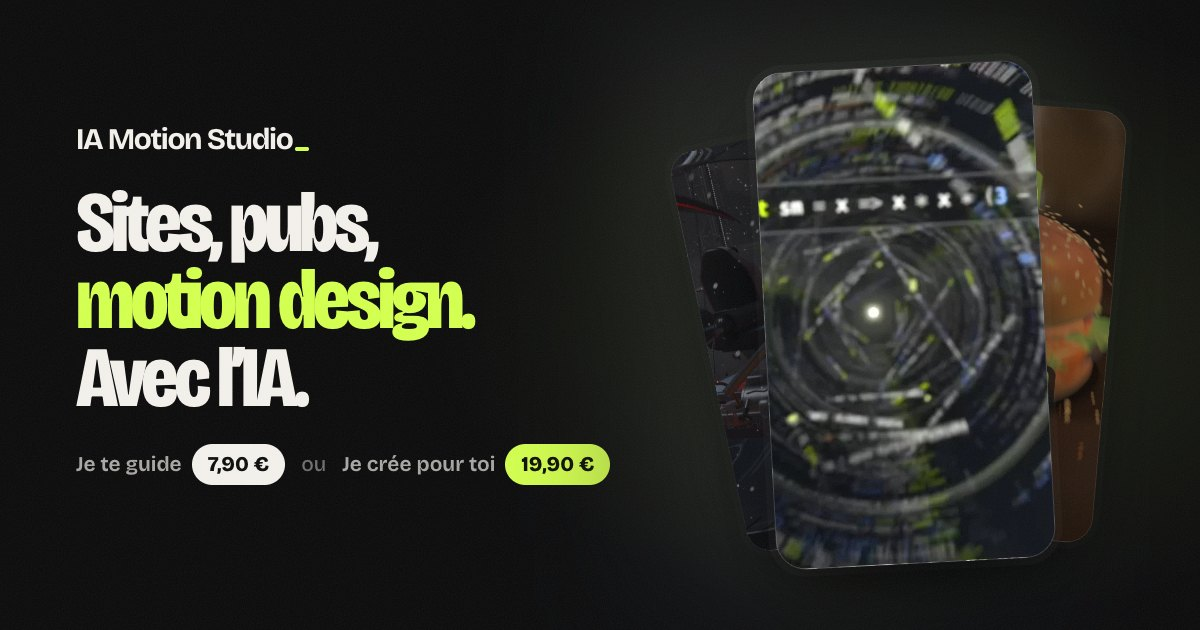
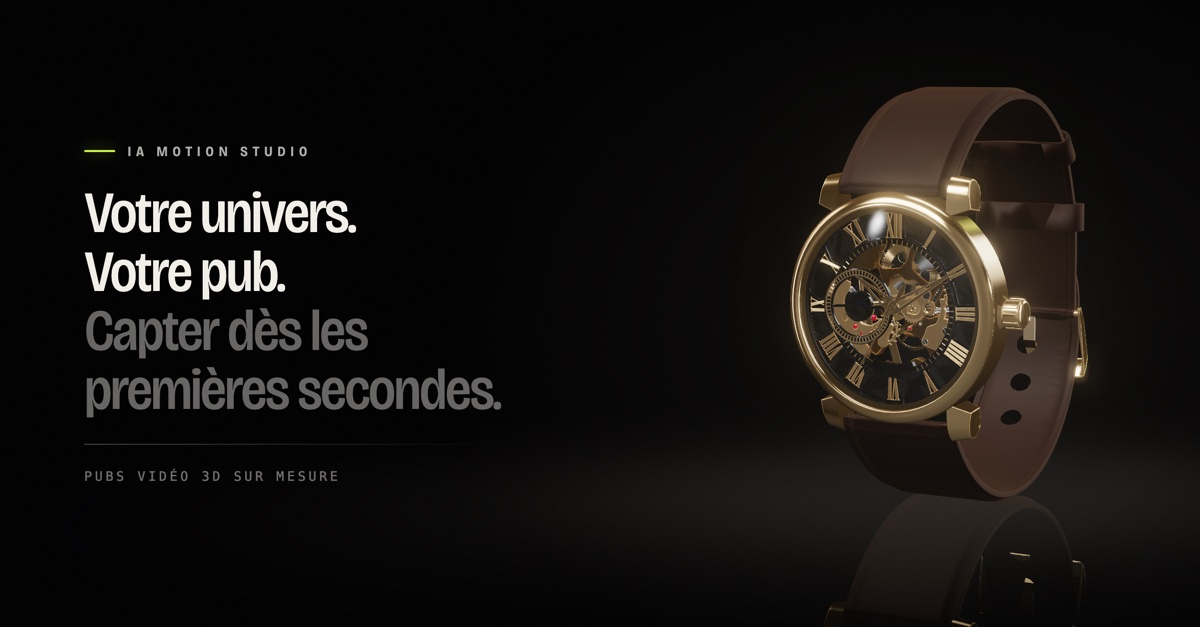
new version

diff --git a/site/pub.html b/site/pub.html
@@ -5,15 +5,15 @@
 <meta charset="utf-8">
 <meta name="viewport" content="width=device-width, initial-scale=1, viewport-fit=cover">
 <meta name="robots" content="noindex">
-<title>IA Motion Studio · Pubs vidéo, motion design et sites avec l’IA</title>
-<meta name="description" content="Sites web, vidéos publicitaires, motion design : je t’explique ma méthode pour créer avec l’IA, ou je crée ton projet pour toi, livré en 24 h maximum. Paiement unique.">
+<title>IA Motion Studio · Des pubs vidéo haut de gamme, à votre portée</title>
+<meta name="description" content="Pubs vidéo et motion design sur mesure, pensés pour l’univers de chaque marque et pour capter dès les premières secondes. Livrées en 24 à 48 h.">
 <meta name="theme-color" content="#09090A">
 <meta property="og:type" content="website">
 <meta property="og:site_name" content="IA Motion Studio">
-<meta property="og:title" content="IA Motion Studio · Pubs vidéo, motion design et sites avec l’IA">
-<meta property="og:description" content="Deux formules pour ton site, ta pub ou ton motion design : je te guide, ou je crée pour toi. Paiement unique.">
+<meta property="og:title" content="IA Motion Studio · Des pubs vidéo haut de gamme, à votre portée">
+<meta property="og:description" content="Pubs vidéo et motion design sur mesure, pensés pour l’univers de chaque marque et pour capter dès les premières secondes. Livrées en 24 à 48 h.">
 <meta property="og:url" content="https://ia-motionstudio.fr/pub">
-<meta property="og:image" content="https://ia-motionstudio.fr/assets/media/og.jpg">
+<meta property="og:image" content="https://ia-motionstudio.fr/assets/media/og.jpg?v=2">
 <meta name="twitter:card" content="summary_large_image">
 <link rel="canonical" href="https://ia-motionstudio.fr/">
 <link rel="icon" href="/assets/favicon.svg" type="image/svg+xml">
@@ -78,7 +78,7 @@ var c=l||'fr',k=document.createElement('link');k.rel='preload';k.as='fetch';k.cr
         <span class="hh-l hh-acc" aria-hidden="true" data-split data-i18n="hero.l2" style="--d:110ms">haut de gamme.</span>
         <span class="hh-l" aria-hidden="true" data-split data-i18n="hero.l3" style="--d:220ms">À votre portée.</span>
       </h1>
-      <p class="hero-sub" data-h style="--d:420ms" data-i18n="hero.sub">Pubs vidéo et motion design sur mesure, au niveau des grandes marques. Livrées en 48 h.</p>
+      <p class="hero-sub" data-h style="--d:420ms" data-i18n="hero.sub">Pubs vidéo et motion design sur mesure, au niveau des grandes marques, livrées dès 24 h.</p>
       <div class="hero-offers" data-h style="--d:540ms" data-hide-sticky>
         <p class="ho-launch" data-launch hidden><i class="live"></i><span data-launch-text></span><b data-countdown></b></p>
         <div class="trio trio-hero" role="radiogroup" data-i18n-attr="aria-label:sheet.switchLabel"><button type="button" class="tri" data-pick-tier="pro" data-trio="pro" aria-pressed="false"><em class="tri-badge tri-badge2" data-i18n="offers.pro.heroBadge"></em><b class="tri-n" data-i18n="offers.pro.name"></b><span class="tri-p"><s data-price-was="pro" hidden></s><span data-price="pro"></span></span><small class="tri-m" data-ti18n="offers.pro.mini"></small></button><button type="button" class="tri is-main sel" data-pick-tier="essentielle" data-trio="essentielle" aria-pressed="true"><em class="tri-badge" data-i18n="offers.essentielle.heroBadge"></em><b class="tri-n" data-i18n="offers.essentielle.name"></b><span class="tri-p"><s data-price-was="essentielle" hidden></s><span data-price="essentielle"></span></span><small class="tri-m" data-ti18n="offers.essentielle.mini"></small></button><button type="button" class="tri" data-pick-tier="studio" data-trio="studio" aria-pressed="false"><em class="tri-badge tri-badge2" data-i18n="offers.studio.heroBadge"></em><b class="tri-n" data-i18n="offers.studio.name"></b><span class="tri-p"><s data-price-was="studio" hidden></s><span data-price="studio"></span></span><small class="tri-m" data-ti18n="offers.studio.mini"></small></button></div>
@@ -163,13 +163,13 @@ var c=l||'fr',k=document.createElement('link');k.rel='preload';k.as='fetch';k.cr
         <span class="chip"><span class="chip-pl"><svg viewBox="0 0 24 24" aria-hidden="true"><path d="M8 5.5v13l10.5-6.5z"/></svg></span> Regarder avec le son <i>0:20</i></span>
       </article>
       <div class="vclients">
-        <article class="vcard vclient" data-play="tacnaan" role="button" tabindex="0" aria-label="Regarder avec le son : restaurant, projet client, formule Essentielle à 39 €">
+        <article class="vcard vclient" data-play="tacnaan" role="button" tabindex="0" aria-label="Regarder avec le son : restaurant, projet client">
           <video muted playsinline loop preload="none" data-poster="/assets/media/tacnaan-poster.webp" data-src="/assets/media/tacnaan-teaser.mp4" data-lazy></video>
           <span class="vtag vtag-c"><svg class="xic" viewBox="0 0 24 24" aria-hidden="true"><path d="M6.5 12.5l3.5 3.5 7.5-8"/></svg> Essentielle · 19,90 €</span>
           <span class="vname"><small>Projet client</small>Restaurant</span>
           <span class="chip"><span class="chip-pl"><svg viewBox="0 0 24 24" aria-hidden="true"><path d="M8 5.5v13l10.5-6.5z"/></svg></span> <i>0:22</i></span>
         </article>
-        <article class="vcard vclient" data-play="digi" role="button" tabindex="0" aria-label="Regarder avec le son : formation e-commerce, projet client, formule Essentielle à 39 €">
+        <article class="vcard vclient" data-play="digi" role="button" tabindex="0" aria-label="Regarder avec le son : formation e-commerce, projet client">
           <video muted playsinline loop preload="none" data-poster="/assets/media/digi-poster.webp" data-src="/assets/media/digi-teaser.mp4" data-lazy></video>
           <span class="vtag vtag-c"><svg class="xic" viewBox="0 0 24 24" aria-hidden="true"><path d="M6.5 12.5l3.5 3.5 7.5-8"/></svg> Essentielle · 19,90 €</span>
           <span class="vname"><small>Projet client</small>E-commerce</span>
@@ -279,7 +279,7 @@ var c=l||'fr',k=document.createElement('link');k.rel='preload';k.as='fetch';k.cr
 <!-- Barre du bas (téléphone) : mène aux deux formules -->
 <div class="sticky" data-sticky>
   <a class="btn btn-p" href="#top" data-go-offers><span data-i18n="sticky.cta">Choisir ma formule</span><svg class="ic" viewBox="0 0 24 24" aria-hidden="true"><path d="M12 5v14M6 13l6 6 6-6"/></svg></a>
-  <p class="sticky-t" data-i18n="sticky.note">Je vous guide, ou je crée pour vous</p>
+  <p class="sticky-t" data-i18n="sticky.note">Pour commencer : Essentielle à 19,90 € · livrée en 24 h</p>
 </div>
 
 <!-- Récapitulatif avant paiement -->
@@ -292,7 +292,7 @@ var c=l||'fr',k=document.createElement('link');k.rel='preload';k.as='fetch';k.cr
     <div class="seg sw sw3" role="radiogroup" data-offer-switch data-i18n-attr="aria-label:sheet.switchLabel">
       <span class="seg-pill" aria-hidden="true"></span>
       <label><input type="radio" name="offer" value="essentielle"><span><b data-i18n="offers.essentielle.name">Essentielle</b><small data-price="essentielle"></small></span></label>
-      <label><input type="radio" name="offer" value="pro"><span><b data-i18n="offers.pro.name">Pro</b><small data-price="pro"></small></span></label>
+      <label><input type="radio" name="offer" value="pro"><span><b data-i18n="offers.pro.name">Pro Studio</b><small data-price="pro"></small></span></label>
       <label><input type="radio" name="offer" value="studio"><span><b data-i18n="offers.studio.name">Premium</b><small data-price="studio"></small></span></label>
       <input type="radio" name="offer" value="guide" hidden checked>
     </div>
@@ -319,7 +319,7 @@ var c=l||'fr',k=document.createElement('link');k.rel='preload';k.as='fetch';k.cr
     </fieldset>
     <p class="sheet-ship" data-only="creation" hidden><svg viewBox="0 0 24 24" aria-hidden="true"><circle cx="12" cy="12" r="8.5"/><path d="M12 7.5V12l3 2"/></svg><span data-sheet-ship>Livraison par e-mail, en 48 h maximum</span></p>
     <div class="sheet-up" data-sheet-up hidden><p data-sheet-up-t></p><button type="button" class="sheet-up-go" data-sheet-up-go></button></div>
-    <div class="sheet-total"><span><span data-i18n="sheet.total">Total</span><small data-i18n="sheet.once">Paiement unique · sans abonnement</small></span><strong data-sheet-price>7,90 €</strong></div>
+    <div class="sheet-total"><span><span data-i18n="sheet.total">Total</span><small data-i18n="sheet.once">Paiement unique · sans abonnement</small></span><strong data-sheet-price>14,90 €</strong></div>
     <label class="check">
       <input type="checkbox" name="consent" required>
       <span class="box" aria-hidden="true"><svg viewBox="0 0 24 24"><path d="M5 12.5l4.5 4.5L19 7.5"/></svg></span>
@@ -393,7 +393,7 @@ var c=l||'fr',k=document.createElement('link');k.rel='preload';k.as='fetch';k.cr
     <div class="p-end">
       <p class="p-end-t" data-i18n="video.endTitle">Et votre projet ?</p>
       <p class="p-end-s" data-i18n="video.endSub"></p>
-      <button class="btn btn-p" type="button" data-book="creation"><span data-i18n="offers.creation.name">Je crée pour vous</span><svg class="ic" viewBox="0 0 24 24" aria-hidden="true"><path d="M5 12h14M13 6l6 6-6 6"/></svg></button>
+      <button class="btn btn-p" type="button" data-book="creation"><span data-i18n="hero.cta">Voir les formules</span><svg class="ic" viewBox="0 0 24 24" aria-hidden="true"><path d="M5 12h14M13 6l6 6-6 6"/></svg></button>
       <button class="btn btn-g" type="button" data-book="guide"><span data-i18n="offers.guide.name">Je vous guide</span></button>
       <button class="p-replay" type="button" data-preplay><svg viewBox="0 0 24 24" aria-hidden="true"><path d="M4.5 12a7.5 7.5 0 1 0 2.2-5.3M4.5 4.5v4h4"/></svg><span data-i18n="video.replay">Revoir</span></button>
     </div>

diff --git a/site/index.html b/site/index.html
@@ -3,15 +3,15 @@
 <head>
 <meta charset="utf-8">
 <meta name="viewport" content="width=device-width, initial-scale=1, viewport-fit=cover">
-<title>IA Motion Studio · Pubs vidéo, motion design et sites avec l’IA</title>
-<meta name="description" content="Sites web, vidéos publicitaires, motion design : je t’explique ma méthode pour créer avec l’IA, ou je crée ton projet pour toi, livré en 24 h maximum. Paiement unique.">
+<title>IA Motion Studio · Des pubs vidéo haut de gamme, à votre portée</title>
+<meta name="description" content="Pubs vidéo et motion design sur mesure, pensés pour l’univers de chaque marque et pour capter dès les premières secondes. Livrées en 24 à 48 h.">
 <meta name="theme-color" content="#09090A">
 <meta property="og:type" content="website">
 <meta property="og:site_name" content="IA Motion Studio">
-<meta property="og:title" content="IA Motion Studio · Pubs vidéo, motion design et sites avec l’IA">
-<meta property="og:description" content="Deux formules pour ton site, ta pub ou ton motion design : je te guide, ou je crée pour toi. Paiement unique.">
+<meta property="og:title" content="IA Motion Studio · Des pubs vidéo haut de gamme, à votre portée">
+<meta property="og:description" content="Pubs vidéo et motion design sur mesure, pensés pour l’univers de chaque marque et pour capter dès les premières secondes. Livrées en 24 à 48 h.">
 <meta property="og:url" content="https://ia-motionstudio.fr/">
-<meta property="og:image" content="https://ia-motionstudio.fr/assets/media/og.jpg">
+<meta property="og:image" content="https://ia-motionstudio.fr/assets/media/og.jpg?v=2">
 <meta name="twitter:card" content="summary_large_image">
 <link rel="canonical" href="https://ia-motionstudio.fr/">
 <link rel="alternate" hreflang="fr" href="https://ia-motionstudio.fr/fr">
@@ -126,7 +126,7 @@ var c=l||'fr',k=document.createElement('link');k.rel='preload';k.as='fetch';k.cr
         <span class="hh-l hh-acc" aria-hidden="true" data-split data-i18n="hero.l2" style="--d:110ms">haut de gamme.</span>
         <span class="hh-l" aria-hidden="true" data-split data-i18n="hero.l3" style="--d:220ms">À votre portée.</span>
       </h1>
-      <p class="hero-sub" data-h style="--d:420ms" data-i18n="hero.sub">Pubs vidéo et motion design sur mesure, au niveau des grandes marques. Livrées en 48 h.</p>
+      <p class="hero-sub" data-h style="--d:420ms" data-i18n="hero.sub">Pubs vidéo et motion design sur mesure, au niveau des grandes marques, livrées dès 24 h.</p>
       <div class="hero-offers" data-h style="--d:540ms" data-hide-sticky>
         <p class="ho-launch" data-launch hidden><i class="live"></i><span data-launch-text></span><b data-countdown></b></p>
         <div class="trio trio-hero" role="radiogroup" data-i18n-attr="aria-label:sheet.switchLabel"><button type="button" class="tri" data-pick-tier="pro" data-trio="pro" aria-pressed="false"><em class="tri-badge tri-badge2" data-i18n="offers.pro.heroBadge"></em><b class="tri-n" data-i18n="offers.pro.name"></b><span class="tri-p"><s data-price-was="pro" hidden></s><span data-price="pro"></span></span><small class="tri-m" data-ti18n="offers.pro.mini"></small></button><button type="button" class="tri is-main sel" data-pick-tier="essentielle" data-trio="essentielle" aria-pressed="true"><em class="tri-badge" data-i18n="offers.essentielle.heroBadge"></em><b class="tri-n" data-i18n="offers.essentielle.name"></b><span class="tri-p"><s data-price-was="essentielle" hidden></s><span data-price="essentielle"></span></span><small class="tri-m" data-ti18n="offers.essentielle.mini"></small></button><button type="button" class="tri" data-pick-tier="studio" data-trio="studio" aria-pressed="false"><em class="tri-badge tri-badge2" data-i18n="offers.studio.heroBadge"></em><b class="tri-n" data-i18n="offers.studio.name"></b><span class="tri-p"><s data-price-was="studio" hidden></s><span data-price="studio"></span></span><small class="tri-m" data-ti18n="offers.studio.mini"></small></button></div>
@@ -211,13 +211,13 @@ var c=l||'fr',k=document.createElement('link');k.rel='preload';k.as='fetch';k.cr
         <span class="chip"><span class="chip-pl"><svg viewBox="0 0 24 24" aria-hidden="true"><path d="M8 5.5v13l10.5-6.5z"/></svg></span> Regarder avec le son <i>0:20</i></span>
       </article>
       <div class="vclients">
-        <article class="vcard vclient" data-play="tacnaan" role="button" tabindex="0" aria-label="Regarder avec le son : restaurant, projet client, formule Essentielle à 39 €">
+        <article class="vcard vclient" data-play="tacnaan" role="button" tabindex="0" aria-label="Regarder avec le son : restaurant, projet client">
           <video muted playsinline loop preload="none" data-poster="/assets/media/tacnaan-poster.webp" data-src="/assets/media/tacnaan-teaser.mp4" data-lazy></video>
           <span class="vtag vtag-c"><svg class="xic" viewBox="0 0 24 24" aria-hidden="true"><path d="M6.5 12.5l3.5 3.5 7.5-8"/></svg> Essentielle · 19,90 €</span>
           <span class="vname"><small>Projet client</small>Restaurant</span>
           <span class="chip"><span class="chip-pl"><svg viewBox="0 0 24 24" aria-hidden="true"><path d="M8 5.5v13l10.5-6.5z"/></svg></span> <i>0:22</i></span>
         </article>
-        <article class="vcard vclient" data-play="digi" role="button" tabindex="0" aria-label="Regarder avec le son : formation e-commerce, projet client, formule Essentielle à 39 €">
+        <article class="vcard vclient" data-play="digi" role="button" tabindex="0" aria-label="Regarder avec le son : formation e-commerce, projet client">
           <video muted playsinline loop preload="none" data-poster="/assets/media/digi-poster.webp" data-src="/assets/media/digi-teaser.mp4" data-lazy></video>
           <span class="vtag vtag-c"><svg class="xic" viewBox="0 0 24 24" aria-hidden="true"><path d="M6.5 12.5l3.5 3.5 7.5-8"/></svg> Essentielle · 19,90 €</span>
           <span class="vname"><small>Projet client</small>E-commerce</span>
@@ -327,7 +327,7 @@ var c=l||'fr',k=document.createElement('link');k.rel='preload';k.as='fetch';k.cr
 <!-- Barre du bas (téléphone) : mène aux deux formules -->
 <div class="sticky" data-sticky>
   <a class="btn btn-p" href="#top" data-go-offers><span data-i18n="sticky.cta">Choisir ma formule</span><svg class="ic" viewBox="0 0 24 24" aria-hidden="true"><path d="M12 5v14M6 13l6 6 6-6"/></svg></a>
-  <p class="sticky-t" data-i18n="sticky.note">Je vous guide, ou je crée pour vous</p>
+  <p class="sticky-t" data-i18n="sticky.note">Pour commencer : Essentielle à 19,90 € · livrée en 24 h</p>
 </div>
 
 <!-- Récapitulatif avant paiement -->
@@ -340,7 +340,7 @@ var c=l||'fr',k=document.createElement('link');k.rel='preload';k.as='fetch';k.cr
     <div class="seg sw sw3" role="radiogroup" data-offer-switch data-i18n-attr="aria-label:sheet.switchLabel">
       <span class="seg-pill" aria-hidden="true"></span>
       <label><input type="radio" name="offer" value="essentielle"><span><b data-i18n="offers.essentielle.name">Essentielle</b><small data-price="essentielle"></small></span></label>
-      <label><input type="radio" name="offer" value="pro"><span><b data-i18n="offers.pro.name">Pro</b><small data-price="pro"></small></span></label>
+      <label><input type="radio" name="offer" value="pro"><span><b data-i18n="offers.pro.name">Pro Studio</b><small data-price="pro"></small></span></label>
       <label><input type="radio" name="offer" value="studio"><span><b data-i18n="offers.studio.name">Premium</b><small data-price="studio"></small></span></label>
       <input type="radio" name="offer" value="guide" hidden checked>
     </div>
@@ -367,7 +367,7 @@ var c=l||'fr',k=document.createElement('link');k.rel='preload';k.as='fetch';k.cr
     </fieldset>
     <p class="sheet-ship" data-only="creation" hidden><svg viewBox="0 0 24 24" aria-hidden="true"><circle cx="12" cy="12" r="8.5"/><path d="M12 7.5V12l3 2"/></svg><span data-sheet-ship>Livraison par e-mail, en 48 h maximum</span></p>
     <div class="sheet-up" data-sheet-up hidden><p data-sheet-up-t></p><button type="button" class="sheet-up-go" data-sheet-up-go></button></div>
-    <div class="sheet-total"><span><span data-i18n="sheet.total">Total</span><small data-i18n="sheet.once">Paiement unique · sans abonnement</small></span><strong data-sheet-price>7,90 €</strong></div>
+    <div class="sheet-total"><span><span data-i18n="sheet.total">Total</span><small data-i18n="sheet.once">Paiement unique · sans abonnement</small></span><strong data-sheet-price>14,90 €</strong></div>
     <label class="check">
       <input type="checkbox" name="consent" required>
       <span class="box" aria-hidden="true"><svg viewBox="0 0 24 24"><path d="M5 12.5l4.5 4.5L19 7.5"/></svg></span>
@@ -441,7 +441,7 @@ var c=l||'fr',k=document.createElement('link');k.rel='preload';k.as='fetch';k.cr
     <div class="p-end">
       <p class="p-end-t" data-i18n="video.endTitle">Et votre projet ?</p>
       <p class="p-end-s" data-i18n="video.endSub"></p>
-      <button class="btn btn-p" type="button" data-book="creation"><span data-i18n="offers.creation.name">Je crée pour vous</span><svg class="ic" viewBox="0 0 24 24" aria-hidden="true"><path d="M5 12h14M13 6l6 6-6 6"/></svg></button>
+      <button class="btn btn-p" type="button" data-book="creation"><span data-i18n="hero.cta">Voir les formules</span><svg class="ic" viewBox="0 0 24 24" aria-hidden="true"><path d="M5 12h14M13 6l6 6-6 6"/></svg></button>
       <button class="btn btn-g" type="button" data-book="guide"><span data-i18n="offers.guide.name">Je vous guide</span></button>
       <button class="p-replay" type="button" data-preplay><svg viewBox="0 0 24 24" aria-hidden="true"><path d="M4.5 12a7.5 7.5 0 1 0 2.2-5.3M4.5 4.5v4h4"/></svg><span data-i18n="video.replay">Revoir</span></button>
     </div>
